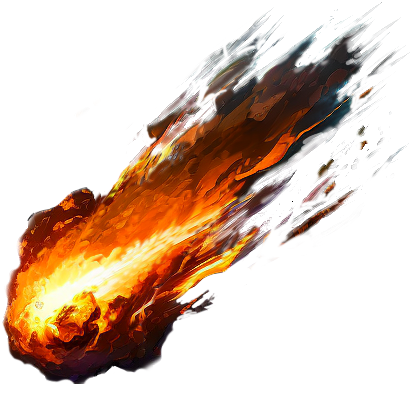
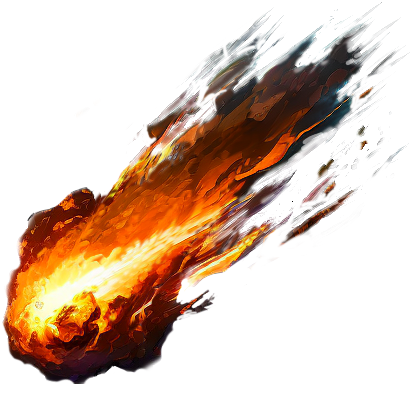
Panel. Meteor. hover

Changed region(s): [[0.3796, 0.5482, 0.6715, 0.7614]]

diff --git a/src/gameApp/magic/Meteor.ts b/src/gameApp/magic/Meteor.ts
@@ -15,13 +15,15 @@ import {ShopCategoryEnum} from '../../enum/ShopCategoryEnum';
 import AnimationInfinite from '../../models/AnimationInfinite';
 
 import BaseImage from '../../assets/img/magics/meteor/image.png';  
-import AnimationImage from '../../assets/img/magics/meteor/animation.png';  
+import ImageGif from '../../assets/img/magics/meteor/imageGif.gif';  
+import AnimationImage from '../../assets/img/magics/meteor/animation.png'; 
 
 /** Метеорит - тип магии */
 export class Meteor extends Magic{
 	static readonly imageHandler: ImageHandler = new ImageHandler();
 
 	private static readonly image: HTMLImageElement = new Image(); //для отображения на панели доступа и в магазине
+	private static readonly imageGif: HTMLImageElement = new Image(); //для отображения на панели доступа при наведении
 	private static readonly imageAnimation: HTMLImageElement = new Image(); //картинка анимации магии
 	private static readonly imageAnimationFrames: number = 3;
 	private static readonly imageAnimationDuration: number = 100;
@@ -33,6 +35,7 @@ export class Meteor extends Magic{
 		super(x, y, 
 			Meteor.name, 
 			Meteor.image, 
+			Meteor.imageGif, 
 			new AnimationInfinite(Meteor.imageAnimationFrames, Meteor.imageAnimationDuration, Meteor.imageAnimation), 
 			null, //lifeTime
 			Meteor.imageHandler);
@@ -47,6 +50,7 @@ export class Meteor extends Magic{
 	static init(isLoadResources: boolean = true): void{
 		if(isLoadResources && Meteor.imageHandler.isEmpty){
 			Meteor.imageHandler.new(Meteor.image).src = BaseImage;
+			Meteor.imageHandler.new(Meteor.imageGif).src = ImageGif;
 			Meteor.imageHandler.new(Meteor.imageAnimation).src = AnimationImage;
 		}
 	}

diff --git a/src/gameApp/magic/Magic.ts b/src/gameApp/magic/Magic.ts
@@ -18,6 +18,7 @@ export class Magic{
 	y: number;
 	name: string;
 	image: HTMLImageElement; //для отображения на панели доступа и в магазине
+	imageGif: HTMLImageElement; //для отображения на панели доступа при наведении
 	animation: AnimationInfinite; //анимация магии в действии
 	leftTime: number|null; //оставшееся время жизни магии
 
@@ -26,6 +27,7 @@ export class Magic{
 		y: number, 
 		name: string, 
 		image: HTMLImageElement, 
+		imageGif: HTMLImageElement, 
 		animation: AnimationInfinite, 
 		lifeTime: number|null,
 		imageHandler: ImageHandler)
@@ -35,6 +37,7 @@ export class Magic{
 		this.y = y;
 		this.name = name;
 		this.image = image;
+		this.imageGif = imageGif;
 		this.animation = animation;
 		this.leftTime = lifeTime;
 		this.imageHandler = imageHandler;

diff --git a/src/reactApp/components/Panels/Panels.scss b/src/reactApp/components/Panels/Panels.scss
@@ -70,12 +70,34 @@
 			margin-right: 0;
 		}
 
+		&:hover{
+			& .panel__item-img{
+				opacity: 0;
+			}
+			& .panel__item-img-gif{
+				opacity: 1;
+			}
+		}
+
 		&-img{
 			background-position: center;
 			background-size: contain;
 			background-repeat: no-repeat;
 			width: 100%;
 			height: 100%;
+			opacity: 1;
+
+			&-gif{
+				position: absolute;
+				top: 0;
+				left: 0;
+				background-position: center;
+				background-size: contain;
+				background-repeat: no-repeat;
+				width: 100%;
+				height: 100%;
+				opacity: 0;
+			}
 		}
 
 		&-number{

diff --git a/src/reactApp/components/Panels/Panels.tsx b/src/reactApp/components/Panels/Panels.tsx
@@ -230,6 +230,9 @@ export class Panels extends React.Component<Props, {}> {
               className={className}>
                 {item == null 
                   ? null 
+                  : <div className={"panel__item-img-gif nodrag "} style={{backgroundImage: `url(${item.imageGif.src})`}} />}
+                {item == null 
+                  ? null 
                   : <div className={"panel__item-img nodrag "} style={{backgroundImage: `url(${item.image.src})`}} />}
                 {item == null 
                   ? null 
